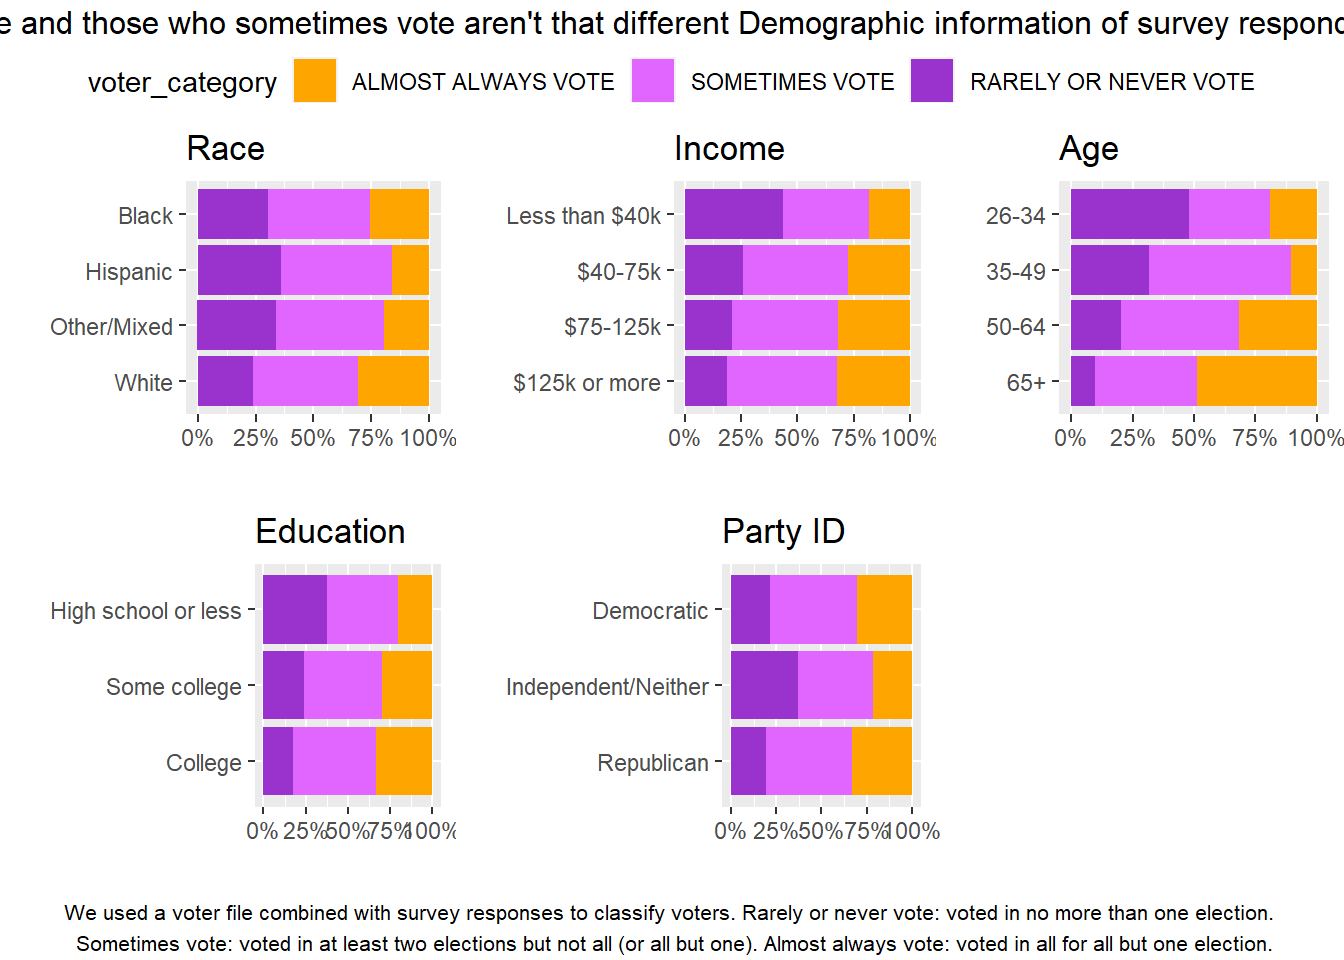
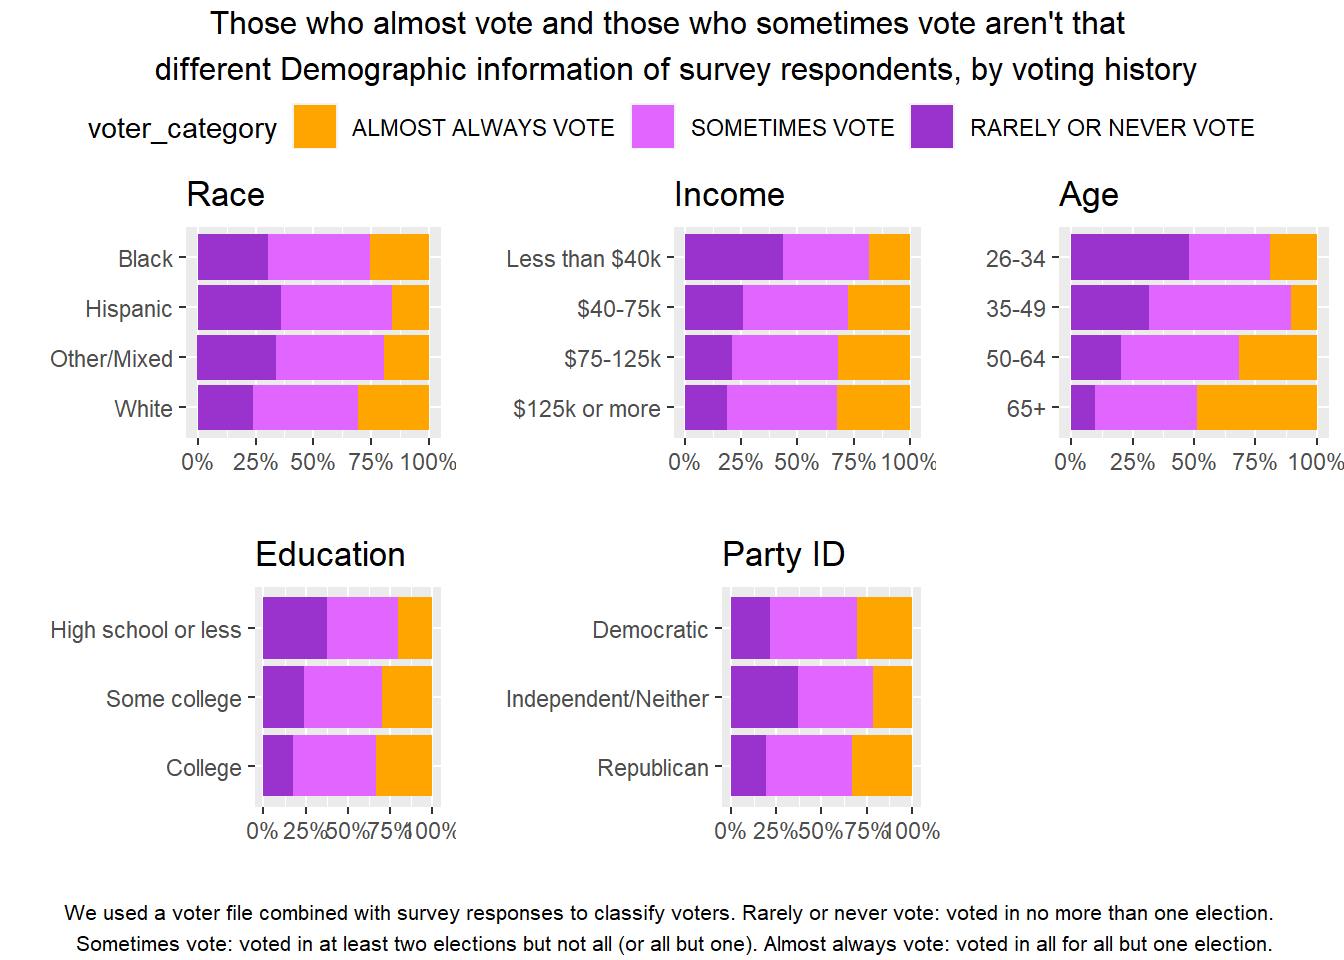
Size Change part 2.2

diff --git a/docs/visualization.html b/docs/visualization.html
@@ -441,10 +441,10 @@ $(document).ready(function () {
 <span id="cb18-18"><a href="#cb18-18" aria-hidden="true" tabindex="-1"></a><span class="co">#comb_plot+plot_layout(guides = &quot;collect&quot;)+plot_annotation(title = &quot;Those who almost vote and those who sometimes vote aren&#39;t that different \n Demographic information of survey respondents, by voting history&quot;, caption = &quot;We used a voter file combined with survey responses to classify voters. Rarely or never vote: voted in no more than one \n election. Sometimes vote: voted in at least two elections but not all. Almost always vote: voted in all for all but one election.&quot;)</span></span>
 <span id="cb18-19"><a href="#cb18-19" aria-hidden="true" tabindex="-1"></a></span>
 <span id="cb18-20"><a href="#cb18-20" aria-hidden="true" tabindex="-1"></a><span class="co">#annotate_figure will give the overall visual with a main title and a subtitle below the visual. </span></span>
-<span id="cb18-21"><a href="#cb18-21" aria-hidden="true" tabindex="-1"></a><span class="fu">annotate_figure</span>(joint_plot, <span class="at">top =</span> <span class="fu">text_grob</span>(<span class="st">&quot;Those who almost vote and those who sometimes vote aren&#39;t that different Demographic information of survey respondents, by voting history&quot;</span>), <span class="at">bottom =</span> <span class="fu">text_grob</span>(<span class="st">&quot;We used a voter file combined with survey responses to classify voters. Rarely or never vote: voted in no more than one election. </span><span class="sc">\n</span><span class="st"> Sometimes vote: voted in at least two elections but not all (or all but one). Almost always vote: voted in all for all but one election.&quot;</span>, <span class="at">size=</span><span class="dv">8</span>))</span></code></pre></div>
+<span id="cb18-21"><a href="#cb18-21" aria-hidden="true" tabindex="-1"></a><span class="fu">annotate_figure</span>(joint_plot, <span class="at">top =</span> <span class="fu">text_grob</span>(<span class="st">&quot;Those who almost vote and those who sometimes vote aren&#39;t that </span><span class="sc">\n</span><span class="st"> different Demographic information of survey respondents, by voting history&quot;</span>), <span class="at">bottom =</span> <span class="fu">text_grob</span>(<span class="st">&quot;We used a voter file combined with survey responses to classify voters. Rarely or never vote: voted in no more than one election. </span><span class="sc">\n</span><span class="st"> Sometimes vote: voted in at least two elections but not all (or all but one). Almost always vote: voted in all for all but one election.&quot;</span>, <span class="at">size=</span><span class="dv">8</span>))</span></code></pre></div>
 <p><img src="visualization_files/figure-html/plots-1.png" width="672" /></p>
 <p><br /></p>
-<p>Most of the visual looks roughly the same except the size of the charts (I tried to use the patchwork package but the legend for the fill variables were going in the wrong position under the individual titles. I went back to ggarange and tried to change the sizes as much as possible.</p>
+<p>Most of the visual looks roughly the same except the size of the charts (I tried to use the patchwork package but the legend for the fill variables were going in the wrong position under the individual titles. I went back to ggarange and tried to change the sizes as much as possible. Again, if there is any suggestions on the sizing of the figures using ggarrange, please let me know.</p>
 
 
 
